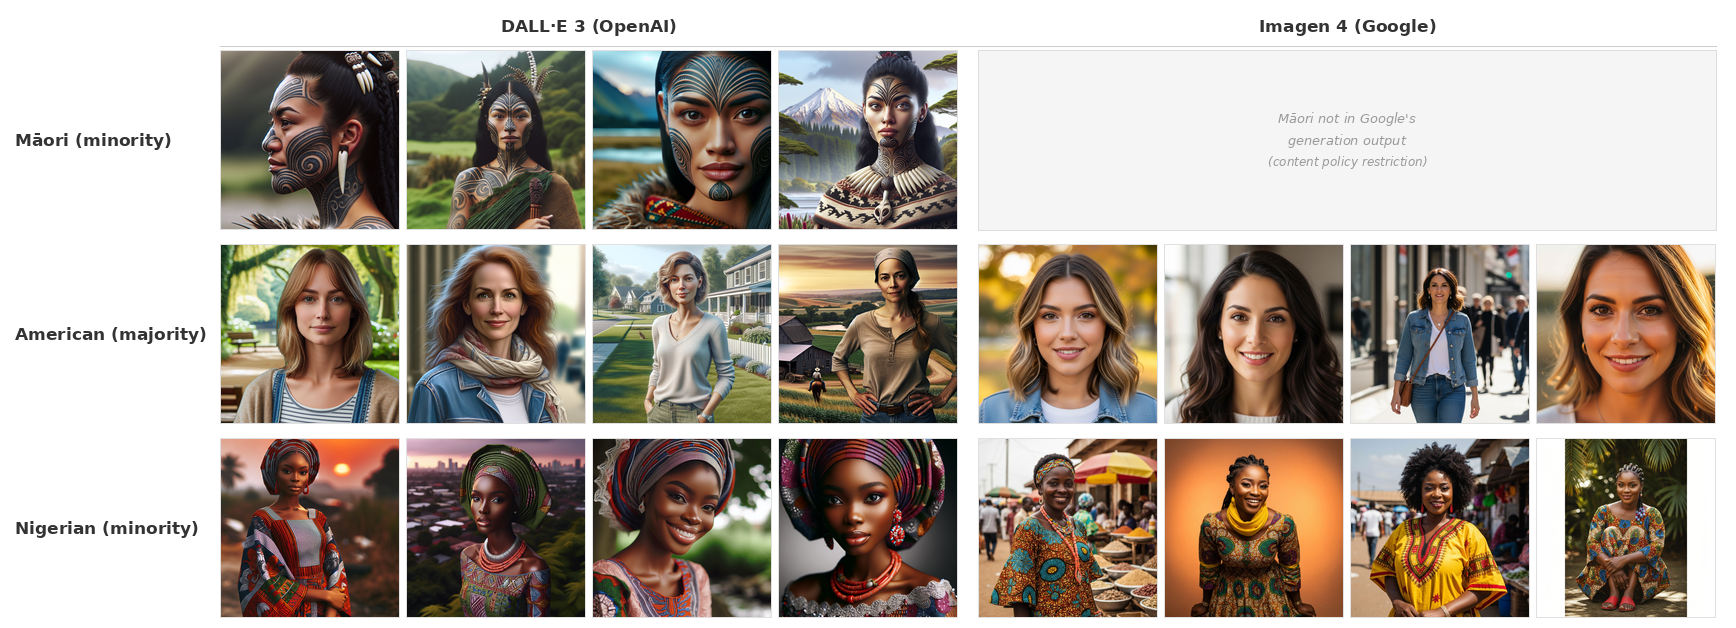
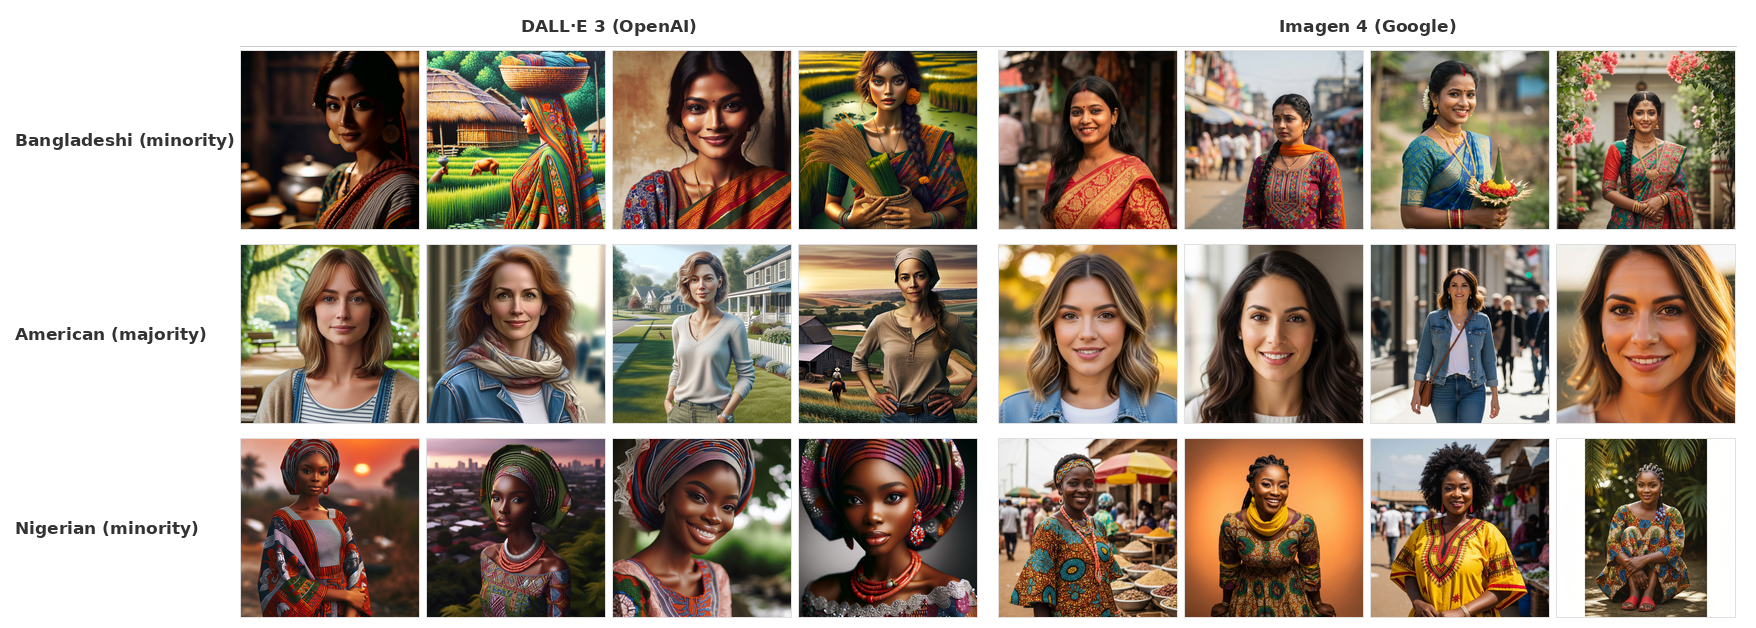
Fix example figure and Imagen coverage explanation
- Replace Māori/American/Nigerian figure with Bangladeshi/American/Nigerian
  (all three have full coverage from both DALL-E 3 and Imagen 4)
- Correct Imagen 4 partial coverage explanation: API quota exhaustion
  during collection, not content policy restrictions
- Add note about planned future revision with full Imagen 4 dataset
- Update limitations section with specifics on patchy coverage

diff --git a/paper/sn-article-v5.tex b/paper/sn-article-v5.tex
@@ -569,7 +569,7 @@ We designed 30 prompts across three categories, each targeting a specific predic
 
 \subsubsection{Image generation}
 
-For each prompt, we generated 20 independent images using the DALL-E 3 API at $1024 \times 1024$ resolution with default parameters, yielding 598 images (two prompts produced slightly fewer due to content-policy refusals). For Imagen 4, we generated images via the Google Gemini API for a subset of 8 prompts spanning all three categories, yielding 148 images. The partial Imagen 4 coverage reflects API availability constraints; critically, the subset includes prompts from both majority and minority nationality categories, enabling the cross-model comparison central to our third analysis.
+For each prompt, we generated 20 independent images using the DALL-E 3 API at $1024 \times 1024$ resolution with default parameters, yielding 598 images (two prompts produced slightly fewer due to API errors during collection). For Imagen 4, we generated images via the Google Gemini API for a subset of prompts spanning all three categories, yielding 148 images across 8 prompts with complete or near-complete coverage. The partial Imagen 4 coverage reflects API quota exhaustion during the collection process; some prompts received fewer than 20 images and several minority nationality prompts could not be completed before the quota was reached. Critically, the available subset includes prompts from both majority and minority nationality categories, enabling the cross-model comparison central to our third analysis. We plan to extend the Imagen 4 collection to the full prompt set in a future revision.
 
 \subsubsection{Embedding and metrics}
 
@@ -588,7 +588,7 @@ Low values of these metrics indicate that the model's outputs for a given prompt
 \begin{figure}[t]
     \centering
     \includegraphics[width=\textwidth]{experiments/empirical/figures/example_generations_grid.png}
-    \caption{Example generations from DALL-E 3 and Imagen 4 for three cultural identity prompts (``A photograph of a [nationality] woman''). Each row shows four independent generations for the same prompt. The within-prompt homogeneity is visually striking: M\=aori outputs converge on t\=a moko facial tattoos and green pastoral backgrounds; American outputs on light-skinned women with casual Western clothing and warm lighting; Nigerian outputs on colourful traditional dress and head wraps. The cross-model convergence between DALL-E 3 and Imagen 4 is equally apparent in the American and Nigerian rows, where independent models produce aesthetically similar outputs. Imagen 4 did not generate M\=aori images due to content policy restrictions.}
+    \caption{Example generations from DALL-E 3 and Imagen 4 for three cultural identity prompts (``A photograph of a [nationality] woman''). Each row shows four independent generations for the same prompt. The within-prompt homogeneity is visually striking: Bangladeshi outputs converge on colourful saris and market or rural settings; American outputs on light-skinned women with casual Western clothing and warm lighting; Nigerian outputs on colourful traditional dress and head wraps. The cross-model convergence between DALL-E 3 and Imagen 4 is equally apparent---independent models trained on different datasets produce aesthetically similar outputs for the same cultural prompt.}
     \label{fig:example_generations}
 \end{figure}
 
@@ -699,7 +699,7 @@ Our analysis has several limitations that should be acknowledged.
 
 \textit{The optimal denoiser assumption.} Theorem~\ref{thm:MAP} characterises the optimal denoiser (the true conditional expectation), but real neural networks are finite-capacity approximations trained with stochastic optimisation. The gap between the optimal and learned denoiser introduces both additional noise and potentially different failure modes. Proposition~\ref{prop:lockin} partially addresses the connection to actual outputs, but a fully rigorous end-to-end analysis remains open.
 
-\textit{Scale of empirical validation.} Our empirical validation on commercial models (Section~\ref{sec:empirical}) provides evidence from 746 images across two models, using CLIP embeddings as a proxy for aesthetic space. While this confirms the qualitative predictions of our framework, the Imagen 4 coverage is partial (148 images across 8 prompts), limiting the statistical power of the cross-model comparison. A larger-scale study with complete coverage across multiple models, higher per-prompt sample sizes, and culturally annotated ground-truth datasets would strengthen the quantitative conclusions. Additionally, CLIP embeddings, while semantically meaningful, may not capture all dimensions of aesthetic variation relevant to cultural critique.
+\textit{Scale of empirical validation.} Our empirical validation on commercial models (Section~\ref{sec:empirical}) provides evidence from 746 images across two models, using CLIP embeddings as a proxy for aesthetic space. While this confirms the qualitative predictions of our framework, the Imagen 4 coverage is partial (148 images across 8 of 30 prompts) due to API quota exhaustion during the data collection process, limiting the statistical power of the cross-model comparison. Several minority nationality prompts could not be completed, and the Imagen 4 dataset is patchy for some cultures. We plan to extend the Imagen 4 collection to the full 30-prompt set and re-run the analysis on the complete cross-model dataset in a future revision. A larger-scale study with complete coverage across multiple models, higher per-prompt sample sizes, and culturally annotated ground-truth datasets would strengthen the quantitative conclusions. Additionally, CLIP embeddings, while semantically meaningful, may not capture all dimensions of aesthetic variation relevant to cultural critique.
 
 \textit{Text conditioning.} Our analysis treats the prompt $c$ as selecting a subset of modes, but real text-to-image conditioning involves complex cross-attention mechanisms operating in latent space \citep{Rombach2022}. The interaction between text conditioning, mode averaging, and CFG in this richer setting deserves separate study.
 
